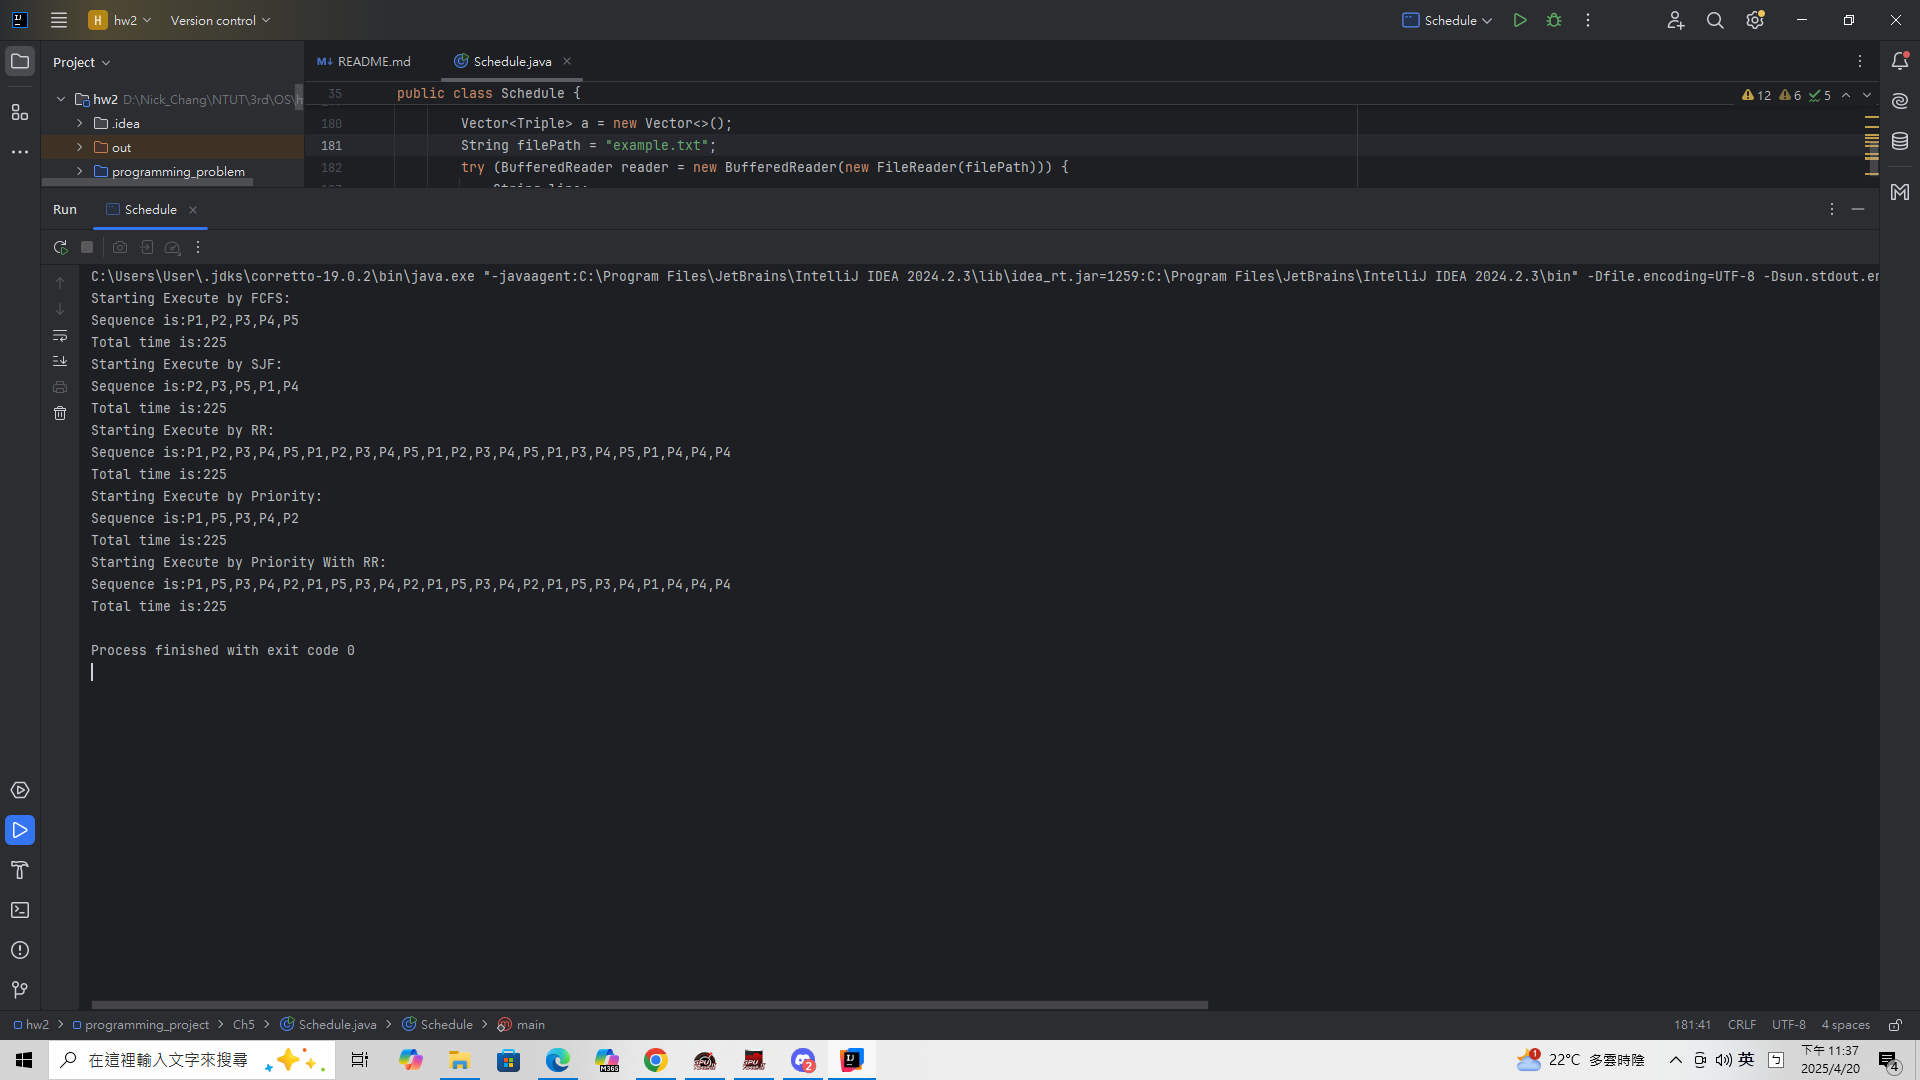
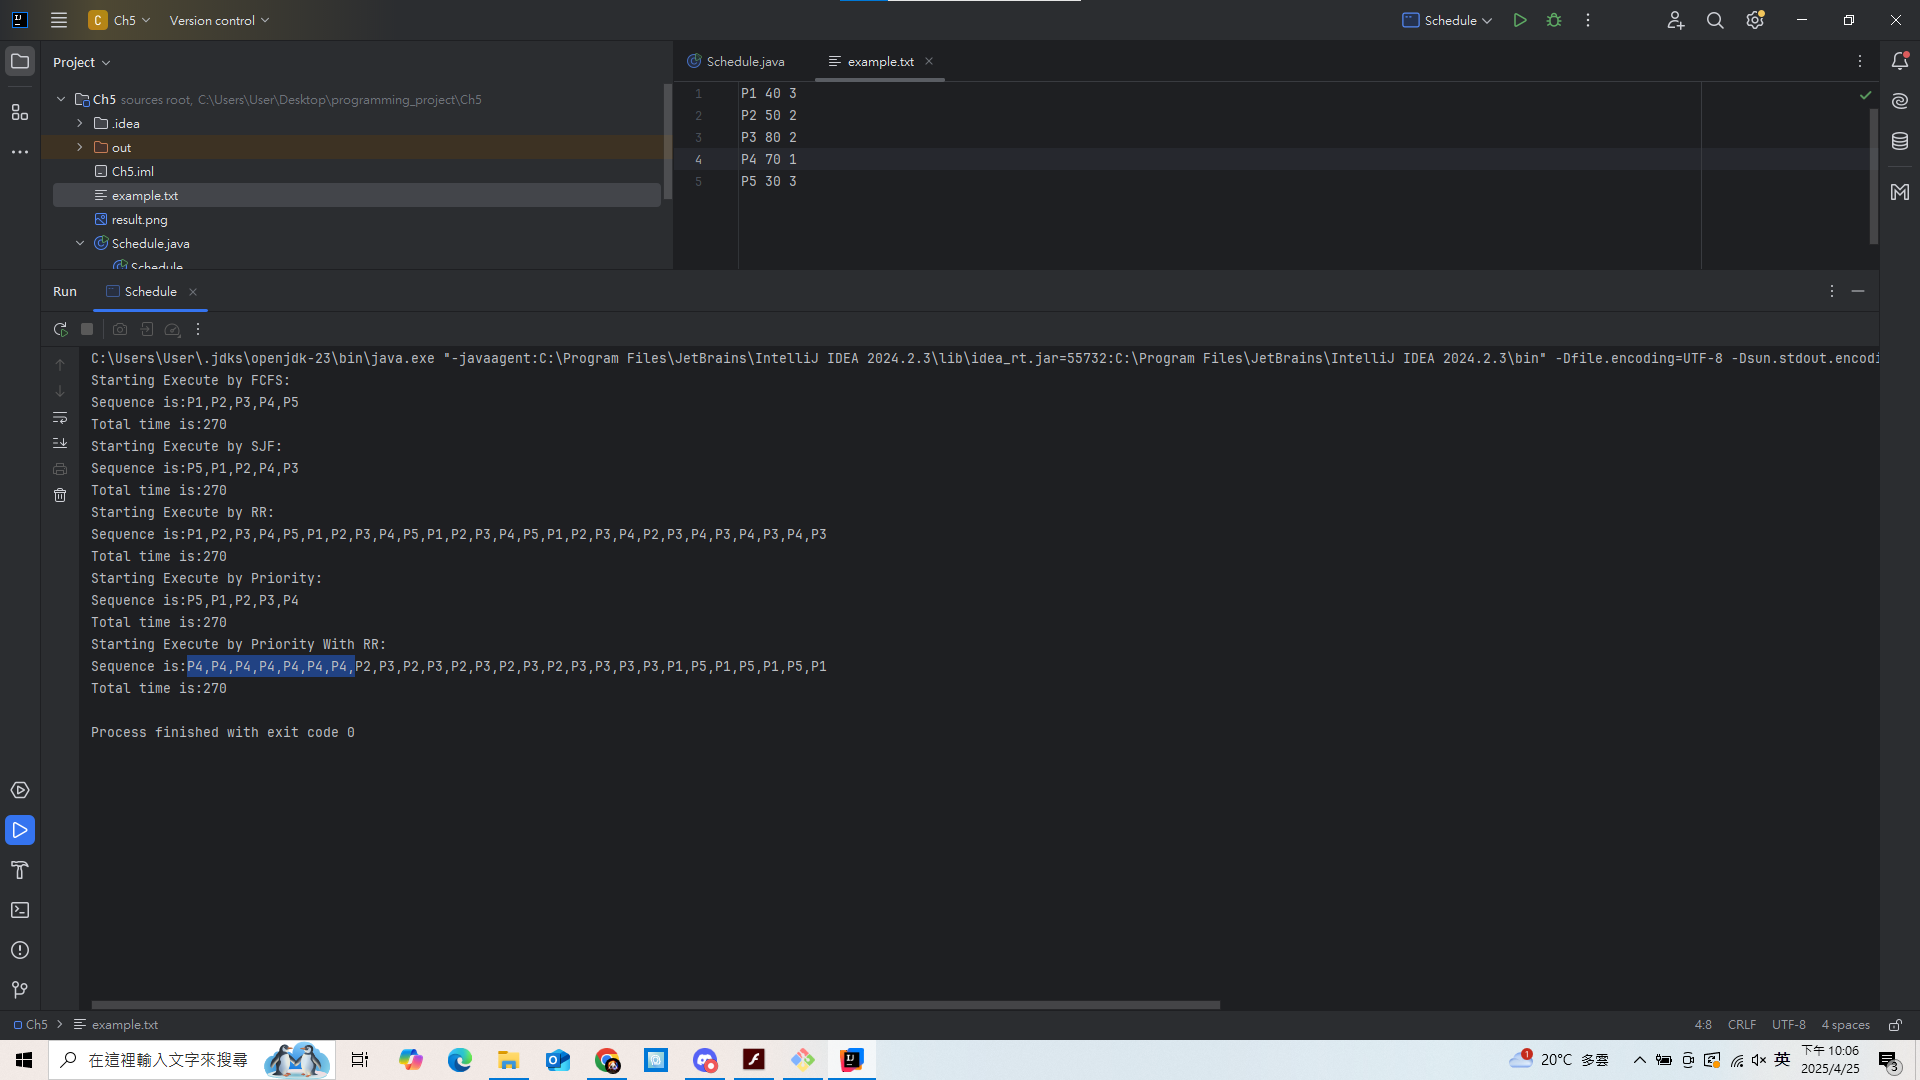
Update Ch5

diff --git a/hw2/programming_project/Ch5/Schedule.java b/hw2/programming_project/Ch5/Schedule.java
@@ -131,40 +131,32 @@ public class Schedule {
         System.out.println("Total time is:"+t);
     }
     private static void PriorityWithRR(Vector<Triple> a){
-        PriorityQueue<Triple> queue = new PriorityQueue<>(
-                (x, y) -> {
-                    // 先比較優先級，較大的優先級排在前面
-                    int priorityCompare = Integer.compare(y.priority, x.priority);
-                    if (priorityCompare != 0) {
-                        return priorityCompare;  // 如果優先級不同，直接返回結果
-                    }
-                    // 如果優先級相同，則比較 time，較短的 time 排在前面（SJF）
-                    return Integer.compare(x.time, y.time);  // 這裡是 SJF 比較，時間較短的優先
-                }
-        );
+
+        LinkedList<Triple>[] queue = new LinkedList[11];
+
+        for (int i = 0; i <= 10; i++) {
+            queue[i] = new LinkedList<>();
+        }
+
         for(int i = 0; i < a.size(); i++){
-            queue.add(new Triple(a.get(i).task, a.get(i).time, a.get(i).priority));
+            queue[a.get(i).priority].add(new Triple(a.get(i).task, a.get(i).time, a.get(i).priority));
         }
         int t = 0;
 
         System.out.println("Starting Execute by Priority With RR:");
         String ans = "";
-        while (!queue.isEmpty()){
-            int size = queue.size();
-            Queue<Triple> st = new LinkedList<>();
-            for(int i = 0; i < size; i++){
-                Triple tmp = queue.poll();
-                if(tmp.time <= 0){
+
+        for(int i = 0; i < queue.length; i++){
+            while (!queue[i].isEmpty()){
+                Triple tmp = queue[i].poll();
+                t+=Math.min(tmp.time, 10);
+                tmp.time -= 10;
+                ans += tmp.task;
+                ans+=",";
+                if(tmp.time<=0){
                     continue;
                 }
-                ans+=tmp.task;
-                t += Math.min(tmp.time, 10);
-                tmp.time -= 10;
-                ans+=",";
-                st.add(tmp);
-            }
-            while(!st.isEmpty()){
-                queue.add(st.poll());
+                queue[i].add(tmp);
             }
         }
         ans = ans.substring(0, ans.length() - 1);

diff --git a/hw2/programming_project/README.md b/hw2/programming_project/README.md
@@ -101,6 +101,7 @@ gcc -o sudoku_validator sudoku_validator.c -lpthread
 > - RR (Round Robin)
 > - Priority
 > - Priority with RR  
+>     - 在這裡，我們將同一個 `priority` 的東西都用 `RR` 處理，即使裡面剩一個 `Process` ，所以他有可能一個 `process` 會跑很多次。
 >   `Priority` 數字越大越優先， `RR` 的 `Quantum` 為 `10` 。  
 >   `Priority` 的數字 `1~10` ， 時間最大為 `100` 。  
 >   以上皆參考至 `OS` 老師指定之教科書內容。
